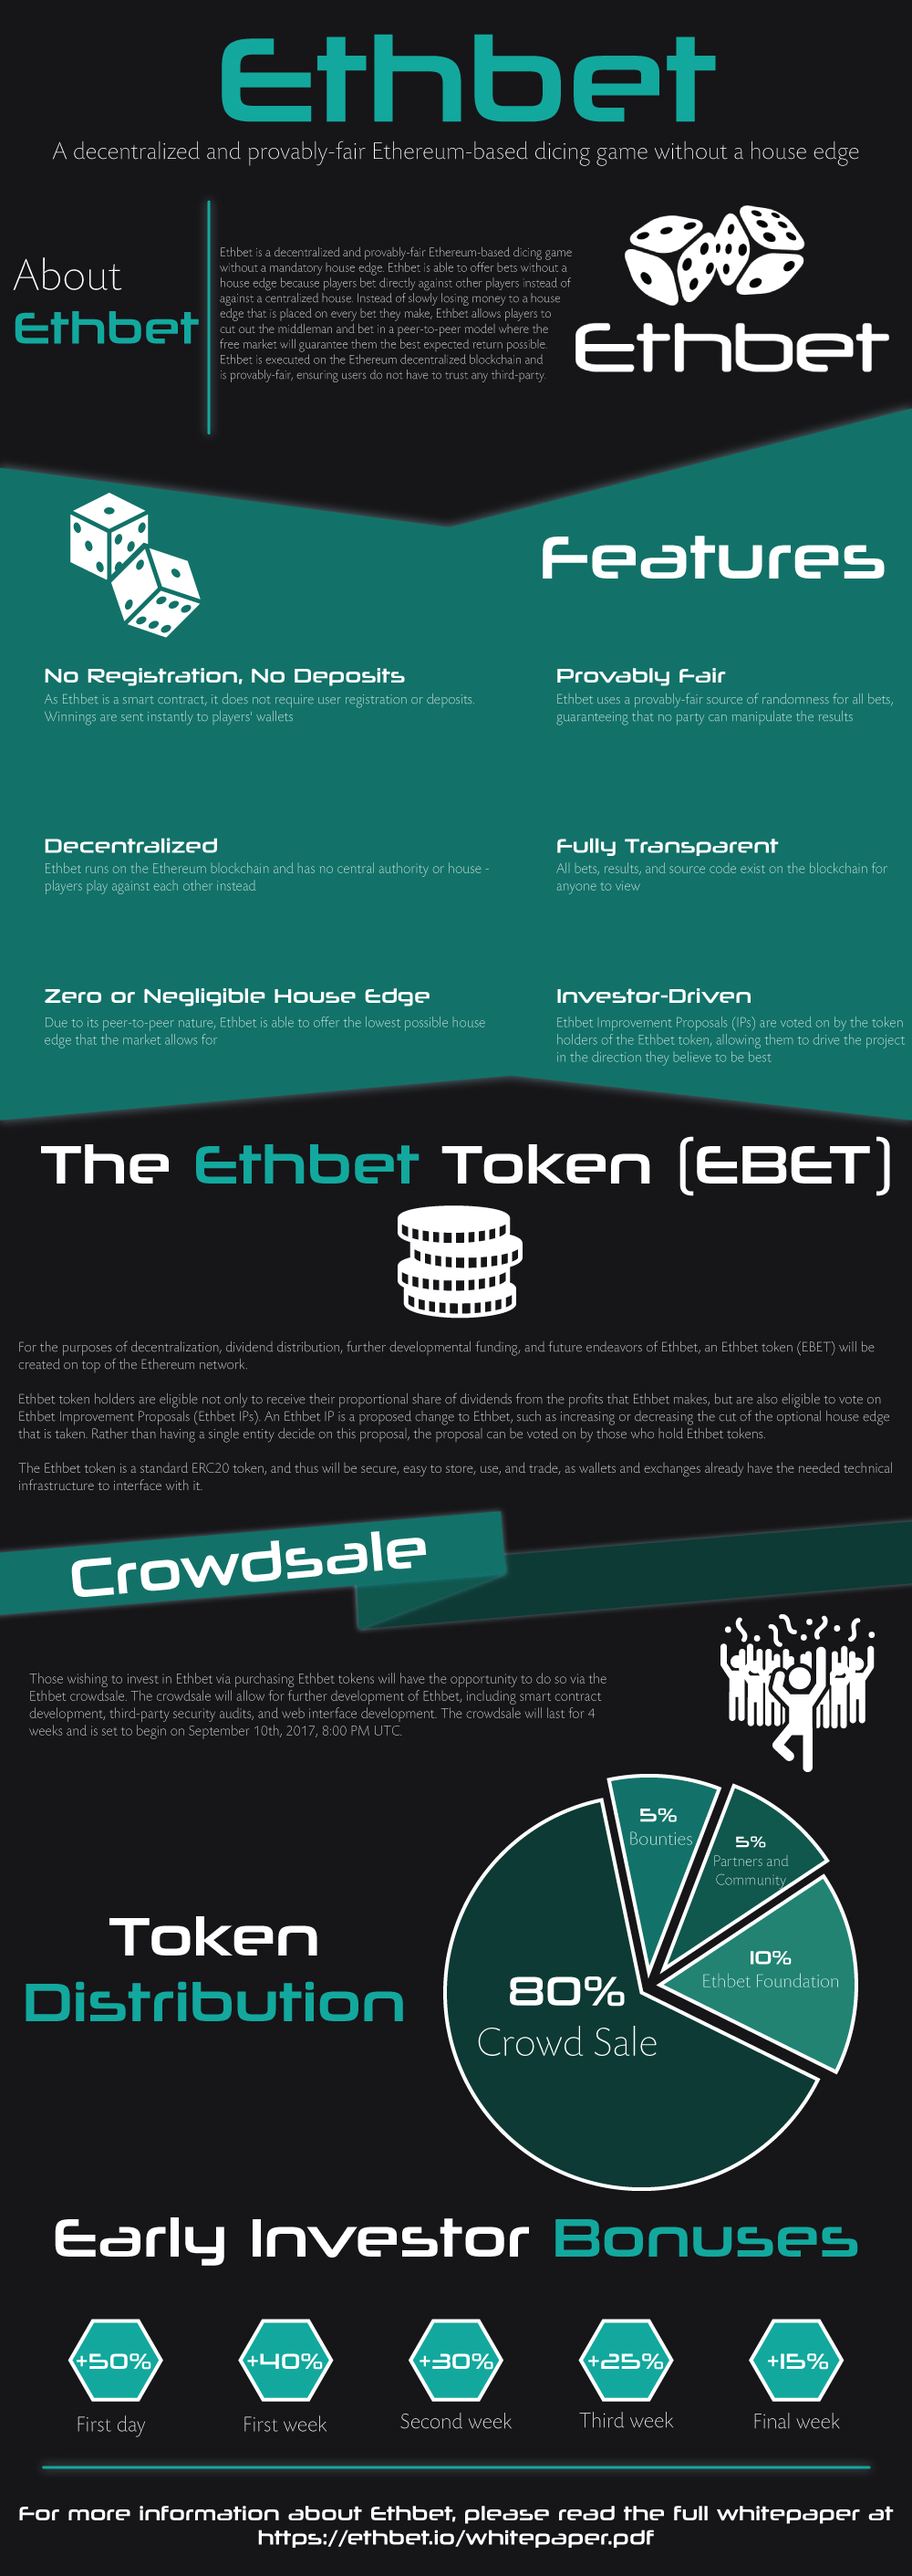
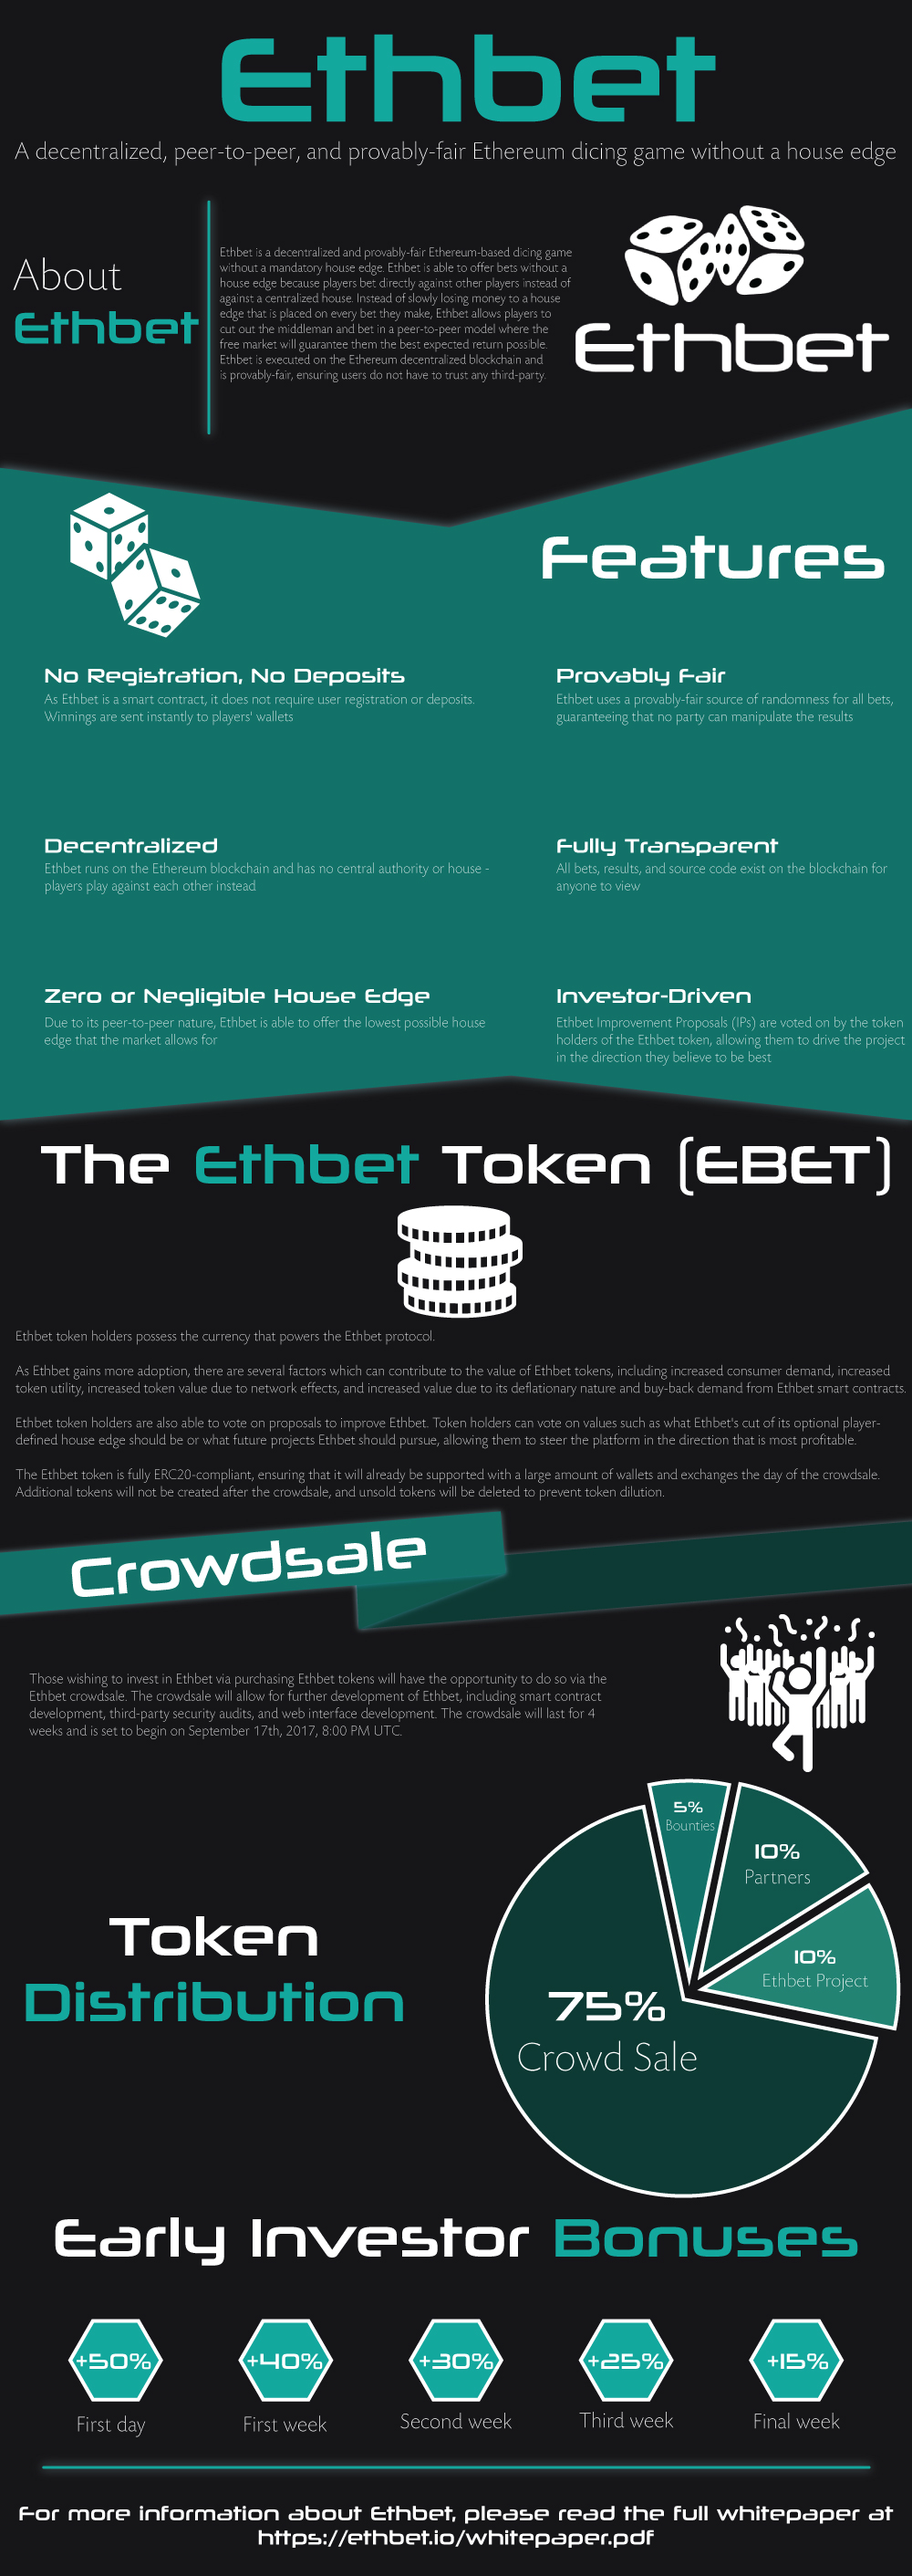
Update infographic; Add more token information to crowdsale page

Changed region(s): [[0.465, 0.6858, 0.992, 0.8728], [0.0, 0.4988, 0.961, 0.5923], [0.62, 0.8417, 0.682, 0.8728]]

diff --git a/website/HTML/crowdsale/index.html b/website/HTML/crowdsale/index.html
@@ -206,7 +206,13 @@
                                     vote on proposals to improve Ethbet. Token holders can vote on values such
                                     as what Ethbet's cut of its optional player-defined house edge should be or what future projects Ethbet should pursue, allowing them to steer
                                     the platform in the direction that is most profitable.</p>
-                                <p>The EBET token can be found on etherscan.io at <a target="_blank" href="https://etherscan.io/token/0x7D5Edcd23dAa3fB94317D32aE253eE1Af08Ba14d">https://etherscan.io/token/0x7D5Edcd23dAa3fB94317D32aE253eE1Af08Ba14d</a></p>
+                                <h3>Token Information</h3>
+                                <table class="table">
+                                    <tr><td>Token Contract Adress</td><td><a href="https://etherscan.io/token/0x7D5Edcd23dAa3fB94317D32aE253eE1Af08Ba14d">0x7D5Edcd23dAa3fB94317D32aE253eE1Af08Ba14d</a></td></tr>
+                                    <tr><td>Token Decimals</td><td>2</td></tr>
+                                    <tr><td>Token Symbol</td><td>EBET</td></tr>
+                                    <tr><td>Total Possibly Supply</td><td>10,000,000</td></tr>
+                                </table>
                                 <p>For more information about how Ethbet and its token functions, please read the <a href="https://ethbet.io/whitepaper.pdf">Ethbet whitepaper</a>.</p>
                             </div>
                         </div>
